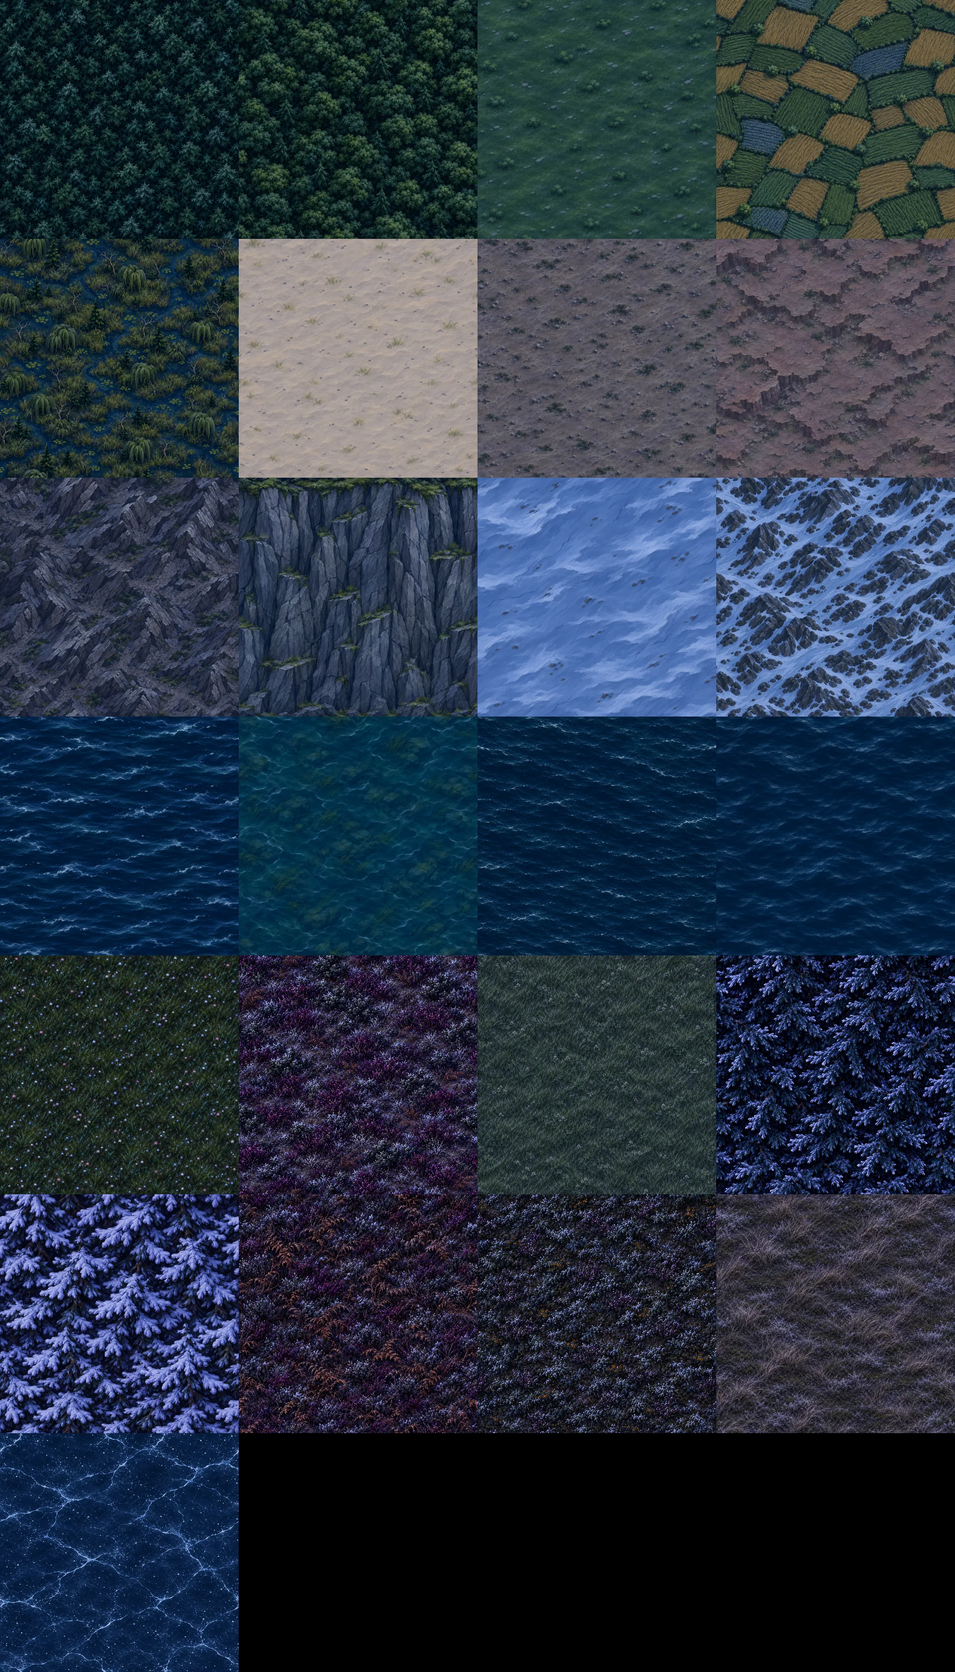
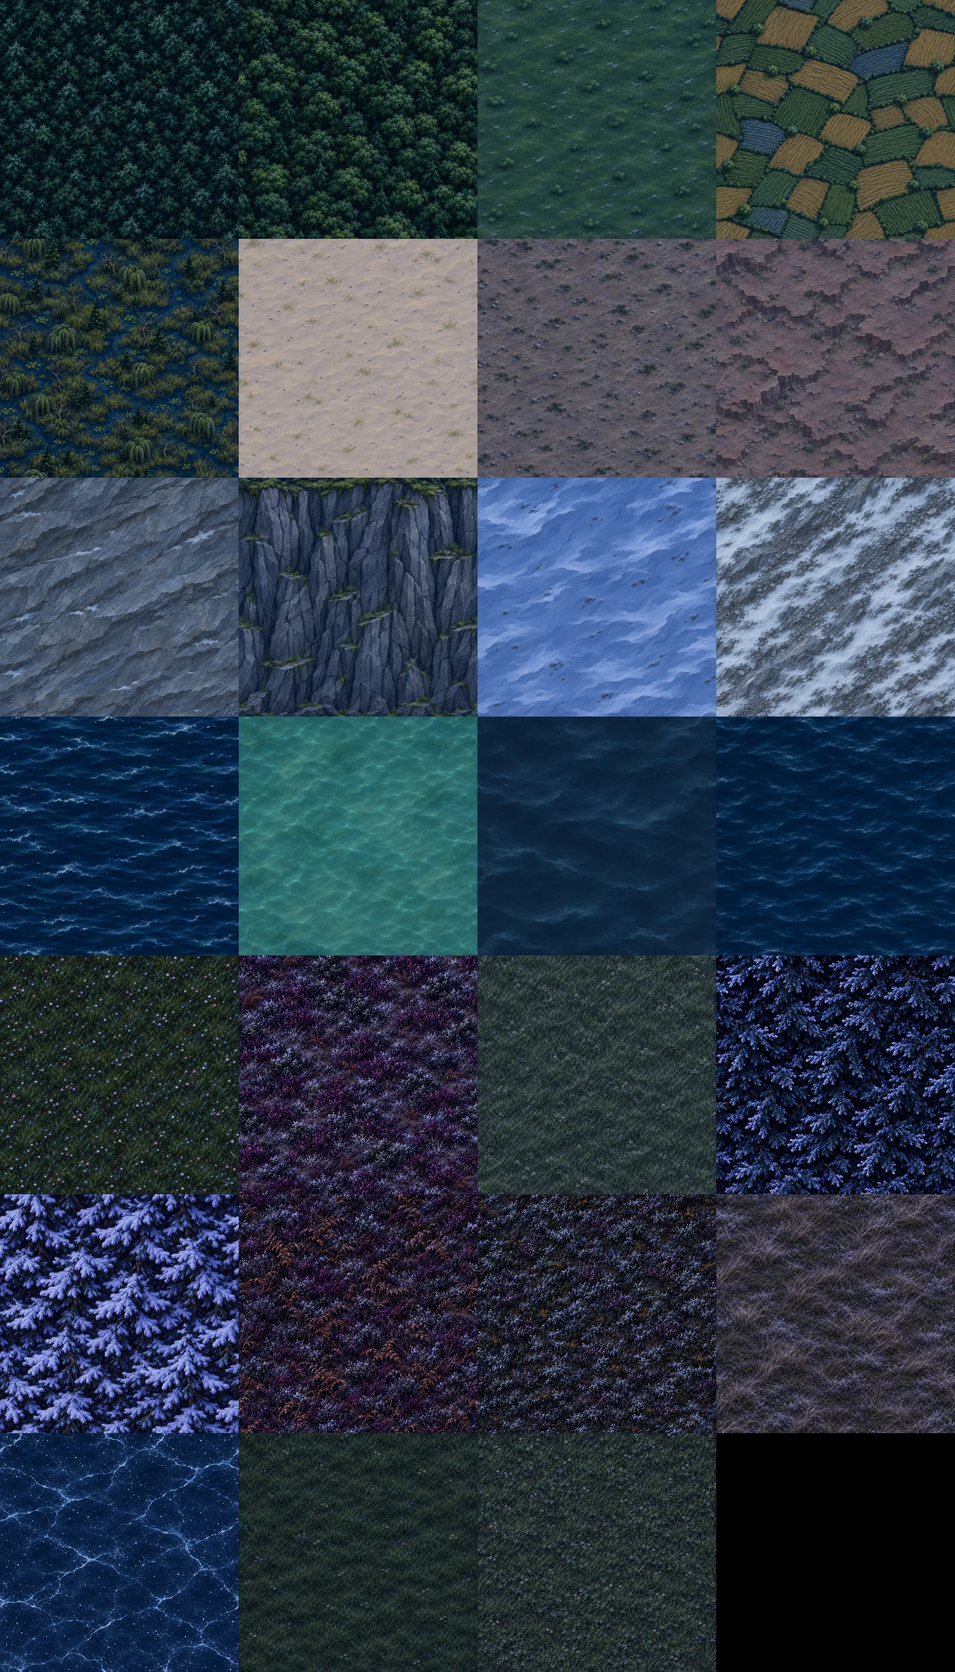
World map: no surf bands, still rivers, textured grass, gentler buildings; Chris's four new sea and mountain textures
Chris (November 17, from his laptop): the ripples along the coast gone; rivers flat and still; more texture in the open
grass; the buildings were washing out. His four textures made for this map (aethermoor_sea_from_high,
aethermoor_sea_shallows, aethermoor_mountain_rock, aethermoor_mountain_scree_snow; from his upload
Aethermoor-World-Map-Round1.zip, kept as sent in moon-faire-witches/world-map/art/world-map-round-1/) take the places of
deep_sea, shallow_sea, bare_rock and snowy_mountainside in the ground layers; shared_grass_meadow and
riverglade_clover_grass (texture-packs/made/ on work/textures-made, bb4a5f0) are added for the grass.

Claude-Session: https://claude.ai/code/session_0193WyVCYZfXoKRL5N8nneCc

diff --git a/moon-faire-witches/world-map/map/map3d.js b/moon-faire-witches/world-map/map/map3d.js
@@ -76,16 +76,18 @@
       return albedo * (vec3(0.30, 0.35, 0.52) * (0.62 + 0.38 * sv.y) + vec3(0.92, 0.94, 1.0) * max(l, 0.0) * 0.95 * sv.x + vec3(0.05, 0.06, 0.10) * max(n.y, 0.0));
     }
     // water under the moon, flat: two sets of small ripples crossing tilt its face a little; seen at a low angle it takes
-    // the sky's sheen; and the moon lays a path of light on it (calm: 1 the open sea, less for a river)
-    vec3 water(vec3 base, vec3 wp, float vd, float calm) {
-      vec2 p = wp.xz * 0.11, m1 = uTime * vec2(0.42, 0.25), m2 = uTime * vec2(-0.36, 0.5), e = vec2(0.7, 0.0);
+    // the sky's sheen; and the moon lays a path of light on it (calm: 1 the open sea, near 0 a river, which lies
+    // still: move 0)
+    vec3 water(vec3 base, vec3 wp, float vd, float calm, float move) {
+      vec2 p = wp.xz * 0.11, m1 = uTime * vec2(0.42, 0.25) * move, m2 = uTime * vec2(-0.36, 0.5) * move, e = vec2(0.7, 0.0);
       float a = n2(p + m1), b = n2(p * 2.3 + m2);
       vec2 g = vec2(n2(p + e + m1) - a, n2(p + e.yx + m1) - a) + 0.6 * vec2(n2(p * 2.3 + e + m2) - b, n2(p * 2.3 + e.yx + m2) - b);
       vec3 n = normalize(vec3(-g.x * calm * 0.45, 1.0, -g.y * calm * 0.45)), v = normalize(uEye - wp), r = reflect(-v, n);
       float fres = pow(1.0 - max(dot(n, v), 0.0), 4.0), mr = max(dot(r, uMoon), 0.0), nearBy = 1.0 - smoothstep(1500.0, 6500.0, vd);
       vec3 c = base * (0.86 + 0.28 * n2(p * 0.33 + m1 * 0.2));
       c = mix(c, vec3(0.15, 0.18, 0.34), fres * 0.6);
-      return c + vec3(0.85, 0.88, 1.0) * (pow(mr, 160.0) * 0.8 + pow(mr, 22.0) * 0.22) * (0.25 + 0.75 * nearBy);
+      // (the moon's light on it soft and broad: sharp glints made a busy scribble over the water near the coasts)
+      return c + vec3(0.85, 0.88, 1.0) * (pow(mr, 90.0) * 0.16 + pow(mr, 18.0) * 0.16) * (0.25 + 0.75 * nearBy);
     }
     vec3 finish(vec3 c, vec3 wp, float depth, float lines) {
       vec2 at = vec2((wp.x + ${AW / 2}.0) / ${AW}.0, (wp.z + ${AH / 2}.0) / ${AH}.0);
@@ -120,7 +122,7 @@
   // tex: true where the phone or laptop can hold the made ground textures as a stack of layers (WebGL 2); else flat colours
   const landF = (tex) => `
     ${tex ? 'precision highp sampler2DArray;' : ''}
-    uniform sampler2D ground, kinds; ${tex ? 'uniform sampler2DArray layers; uniform float uLayer[65], uMoodW[13]; uniform vec3 uTint[25];' : ''}
+    uniform sampler2D ground, kinds; ${tex ? 'uniform sampler2DArray layers; uniform float uLayer[65], uMoodW[13]; uniform vec3 uTint[27];' : ''}
     varying vec3 vW, vN; varying float vDepth;
     ${FINISH}
     void main() {
@@ -152,6 +154,19 @@
       // close to, the same texture again much finer, so the ground has grain under the trees
       c = mix(c, texture(layers, vec3(p / 21.0 + 0.11, L)).rgb, 0.5 * (1.0 - smoothstep(60.0, 300.0, vDepth)));
       c *= uTint[int(L + 0.5)];
+      // open grass has more to it than one even green: drifts of meadow and of clover, darker and lighter patches, and
+      // close to, tufts and the specks of flowers
+      if (k == 5) {
+        float m1 = fbm(vW.xz * 0.021 + 4.0), m2 = fbm(vW.xz * 0.034 + 11.0);
+        if (zi <= 1) {
+          c = mix(c, texture(layers, vec3(p / 70.0, 25.0)).rgb * uTint[25], smoothstep(0.42, 0.6, m1) * 0.85);
+          c = mix(c, texture(layers, vec3(p / 60.0, 26.0)).rgb * uTint[26], smoothstep(0.52, 0.66, m2) * 0.8);
+        }
+        c *= 0.8 + 0.42 * fbm(vW.xz * 0.075 + 1.5);
+        float near = 1.0 - smoothstep(120.0, 520.0, vDepth), tuft = n2(vW.xz * 0.9) * n2(vW.xz * 2.3 + 3.0);
+        c *= 1.0 - 0.38 * near * smoothstep(0.22, 0.5, tuft);
+        c += vec3(0.5, 0.48, 0.3) * near * smoothstep(0.86, 0.93, n2(vW.xz * 3.1 + 7.0)) * smoothstep(0.45, 0.6, m2);
+      }
       // the mountains: bare rock, banded as it rises; snow lying where the ground is high and not too steep (higher on
       // some slopes than others, and wherever the painting has snow); between the two, rock with snow in its hollows
       float slope = 1.0 - mix(face.y, sn.y, 0.5);
@@ -166,13 +181,15 @@
       c = mix(mooded(c, vW, mw), mooded(cl, vW, 0.35), steep * (mt ? 0.75 : 1.0));
       c = moonlitTex(c, n, sv);
       // inland water: its bank damp and dark, then the water (in zone 4 it is frozen: the lake ice)
-      vec3 wt = texture(layers, vec3((vW.xz + (zi == 4 ? vec2(0.0) : uTime * vec2(1.3, 0.8))) / 64.0, zi == 4 ? 24.0 : 12.0)).rgb;
-      vec3 wc = zi == 4 ? moonlitTex(wt * uTint[24], n, sv) : water(wt * vec3(1.05, 1.12, 1.25), vW, vDepth, 0.55) * (0.62 + 0.38 * sv.x);
+      // (Chris, November 17: flat and still. The river's texture has waves painted in it, which read as water running
+      // downhill between the trees: so mostly one even colour, a little of the texture laid large, and nothing moving)
+      vec3 wt = texture(layers, vec3(vW.xz / (zi == 4 ? 64.0 : 300.0), zi == 4 ? 24.0 : 15.0)).rgb;
+      vec3 wc = zi == 4 ? moonlitTex(wt * uTint[24], vec3(0.0, 1.0, 0.0), sv) : water(mix(vec3(0.07, 0.19, 0.36), wt * vec3(1.1, 1.2, 1.35), 0.3), vW, vDepth, 0.08, 0.0) * (0.62 + 0.38 * sv.x);
       c = mix(c * (1.0 - 0.3 * smoothstep(0.18, 0.42, g.a)), wc, wet);` : `
       vec3 c = g.rgb * (0.9 + 0.2 * n2(vW.xz * 0.35));
       c = mix(c, mix(vec3(0.40, 0.40, 0.44), c * 0.62, 0.45), steep);
       c = moonlit(mooded(c, vW, 0.8 * (1.0 - steep)), n, sv);
-      c = mix(c, water(vec3(0.07, 0.2, 0.34), vW, vDepth, 0.55), wet);`}
+      c = mix(c, water(vec3(0.07, 0.2, 0.34), vW, vDepth, 0.08, 0.0), wet);`}
       gl_FragColor = vec4(finish(c, vW, vDepth, 1.0), 1.0);
     }`;
   const SEA_V = 'varying vec3 vW; varying float vDepth; void main() { vec4 w = modelMatrix * vec4(position, 1.0); vW = w.xyz; vec4 mv = viewMatrix * w; vDepth = -mv.z; gl_Position = projectionMatrix * mv; }';
@@ -190,19 +207,17 @@
       ${tex ? `
       // (the textures drift; the deep one is laid twice, crossing, at two sizes, so its repeat doesn't show)
       vec2 d1 = uTime * vec2(1.6, 0.9), d2 = uTime * vec2(-0.9, 1.3);
-      vec3 sh = texture(layers, vec3((vW.xz + d1) / 130.0, 13.0)).rgb * 1.55;
-      vec3 dp = 0.5 * (texture(layers, vec3((vW.xz + d1) / 170.0, 14.0)).rgb + texture(layers, vec3((mat2(0.8, -0.6, 0.6, 0.8) * vW.xz + d2) / 410.0, 14.0)).rgb);
-      vec3 base = mix(sh, dp * vec3(1.25, 1.3, 1.4), smoothstep(0.0, 0.7, d));` : `
+      // (Chris's sea made to be seen from high up: one square covers 4 km, and again 11 km, crossing)
+      vec3 sh = texture(layers, vec3((vW.xz + d1) / 210.0, 13.0)).rgb * 0.7;
+      vec3 dp = 0.5 * (texture(layers, vec3((vW.xz + d1) / 420.0, 14.0)).rgb + texture(layers, vec3((mat2(0.8, -0.6, 0.6, 0.8) * vW.xz + d2) / 1100.0, 14.0)).rgb);
+      vec3 base = mix(sh, dp * vec3(1.04, 1.08, 1.16), smoothstep(0.0, 0.7, d));` : `
       vec3 base = mix(vec3(0.10, 0.36, 0.46), vec3(0.035, 0.085, 0.22), smoothstep(0.0, 0.75, d));`}
       // the sea bed showing pale through the shallowest water
       base = mix(vec3(0.22, 0.44, 0.43), base, smoothstep(0.0, 0.13, d) * 0.75 + 0.25);
-      vec3 c = water(base, vW, vDepth, 1.0) * (0.7 + 0.3 * mix(1.0, sd.g, inner3)); // (the cliffs' shadows lie on it)
-      // surf: a line of foam along the shore, and two more that roll in to it one after the other
-      float nz = n2(vW.xz * 0.35 + uTime * 0.25), ph = uTime * 0.16 + n2(vW.xz * 0.02) * 4.0, f1 = fract(ph), f2 = fract(ph + 0.5);
-      float foam = (1.0 - smoothstep(0.015, 0.06, d))
-        + (1.0 - smoothstep(0.0, 0.03, abs(d - (0.2 - 0.16 * f1)))) * smoothstep(0.0, 0.35, f1) * 0.8
-        + (1.0 - smoothstep(0.0, 0.03, abs(d - (0.2 - 0.16 * f2)))) * smoothstep(0.0, 0.35, f2) * 0.8;
-      c = mix(c, vec3(0.82, 0.88, 0.96), clamp(foam, 0.0, 1.0) * (0.4 + 0.6 * nz) * inMap * (1.0 - smoothstep(2500.0, 7000.0, vDepth) * 0.6));
+      vec3 c = water(base, vW, vDepth, 1.0, 1.0) * (0.7 + 0.3 * mix(1.0, sd.g, inner3)); // (the cliffs' shadows lie on it)
+      // (Chris, November 17: no bands of surf rolling in along the coasts. Only the water's own pale edge where it
+      // meets the land, soft and unmoving)
+      c = mix(c, vec3(0.62, 0.74, 0.82), (1.0 - smoothstep(0.0, 0.03, d)) * 0.35 * inMap);
       gl_FragColor = vec4(finish(c, vW, vDepth, 1.0), 1.0);
     }`;
   // trees and buildings. Three sorts: a simple tree shape drawn thousands of times, each with its own colour; one mesh
@@ -258,8 +273,9 @@
     ${FINISH}
     void main() {
       vec3 n = normalize(cross(dFdx(vW), dFdy(vW)));
-      vec3 c = ${tex ? 'texture(blayers, vUv).rgb * 1.9 * vT' : 'vT'};
-      c = ${tex ? 'moonlitTex' : 'moonlit'}(mooded(c, vW, uMood), n, shadeAt(vW));
+      vec2 sv = shadeAt(vW); float l = dot(n, uMoon);
+      // (lit more gently than the ground: on a real graphics card the walls and roofs were washing out to white and pink)
+      vec3 c = ${tex ? 'mooded(texture(blayers, vUv).rgb * 1.35 * vT, vW, uMood) * (vec3(0.8, 0.84, 0.98) * (0.62 + 0.38 * sv.y) + vec3(0.8) * max(l, 0.0) * sv.x)' : 'moonlit(mooded(vT, vW, uMood), n, sv)'};
       gl_FragColor = vec4(finish(c, vW, vDepth, 0.0), 1.0);
     }`;
   // the towns' lit windows: small warm points, dimmed under the mist
@@ -477,7 +493,7 @@
       const kd = new Uint8Array(DW * DH * 4);
       {
         const kk = Uint8Array.from(Kd), wetK = (v) => v === KIND.river || v === KIND.lake;
-        for (let pass = 0; pass < 14; pass++) { let left = 0; const next = Uint8Array.from(kk);
+        for (let pass = 0; pass < 120; pass++) { let left = 0; const next = Uint8Array.from(kk);
           for (let y = 1; y < DH - 1; y++) for (let x = 1; x < DW - 1; x++) { const i = y * DW + x; if (!wetK(kk[i])) continue; let got = 0; for (const j of [i - 1, i + 1, i - DW, i + DW]) if (kk[j] > KIND.lake) { got = kk[j]; break; } if (got) next[i] = got; else left++; }
           kk.set(next); if (!left) break; }
         for (let i = 0; i < DW * DH; i++) { kd[i * 4] = kk[i] <= KIND.lake ? KIND.sand : kk[i]; kd[i * 4 + 3] = 255; }
@@ -493,9 +509,9 @@
       // (the made textures are painted by night, at different brightnesses, and all lean blue: this evens them and gives
       // each its own colour back, so the dark pine wood, the pale beach and the red mesas sit together). By layer
       const TINT = new Float32Array([[1.8, 2.1, 1.7], [1.7, 1.9, 1.45], [1.25, 1.48, 1.02], [1.38, 1.3, 1.06], [1.5, 1.58, 1.28], [0.65, 0.62, 0.56], [1.27, 1.18, 0.76], [1.45, 1.0, 0.7],
-        [1.4, 1.33, 1.24], [1.25, 1.25, 1.25], [1.22, 1.08, 0.93], [1.25, 1.25, 1.25], [1.25, 1.25, 1.25], [1.25, 1.25, 1.25], [1.25, 1.25, 1.25], [1.25, 1.25, 1.25],
+        [0.94, 0.89, 0.83], [1.25, 1.25, 1.25], [1.22, 1.08, 0.93], [0.96, 0.96, 0.96], [1.25, 1.25, 1.25], [1.25, 1.25, 1.25], [1.25, 1.25, 1.25], [1.25, 1.25, 1.25],
         [2.1, 2.4, 1.8], [1.5, 1.5, 1.42], [1.7, 1.85, 1.65], [1.5, 1.75, 1.3], [0.95, 0.9, 0.82], [1.55, 1.45, 1.35], [1.45, 1.6, 1.6], [1.7, 1.65, 1.55],
-        [1.0, 1.02, 1.05]].flat());
+        [1.0, 1.02, 1.05], [1.35, 1.6, 1.1], [1.3, 1.7, 1.15]].flat());
       // the sheet, in pieces (so what's off the screen isn't drawn): 576 x 384 squares on a phone, 1152 x 768 on a laptop
       const [PX, PY] = LV.pieces, nx = LV.squares[0] / PX, ny = LV.squares[1] / PY, pw = AW / PX, ph = AH / PY;
       const mat = material(LAND_V, landF(!!layers), { ground: { value: ground }, kinds: { value: kinds }, layers: { value: layers }, uLayer: { value: LAYER }, uMoodW: { value: MOODW }, uTint: { value: TINT } });

diff --git a/moon-faire-witches/workshop/slips/world-map.md b/moon-faire-witches/workshop/slips/world-map.md
@@ -30,10 +30,17 @@ Chris said: (15:22, after the first build, which laid the night atlas over a hei
           it); the cliffs look good but the mountains could have a fair bit of improvement; and the houses and buildings
           should look like structures from the 3D of the game. He can get images generated (water surface, mountainside)
           for anything this pass needs. Done (below); four textures asked for in art-requests/world-map-round-1.md.
+          (08:42, with four photos of his laptop's screen, and a zip of the four textures asked for) The ripples along
+          the coast would look better gone. The river looks as if it moves between the trees, less immersive: make it
+          flat. The open grass could have more texture. (His fourth photo showed the buildings washed out to white and
+          pink on his laptop.) All done (below). And he wants to consider what it would take for this 3D map to reflect
+          the actual in-game map: the buildings accurate, in less detail than the game, and the wild zones looking
+          right. Answered with a plan in three passes (Open 7); waiting for his word.
 Branch:   work/world-map (from work/world-3d at 0046851)
 Files:    moon-faire-witches/world-map/ (all new to the game): README.md, envoi-map-where.html, map/map3d.js,
           map/places.js, map/art.js, map/moods.js, map/map.css, art/aethermoor-terrain-height.png,
           art/aethermoor-terrain-kinds.png, art/aethermoor-ground-layers.webp, art/LABELS.md (what each art file holds),
+          art/world-map-round-1/ (Chris's four textures of November 17, as he sent them),
           art/aethermoor-building-layers.webp, map/buildings.js, tools/make-buildings.mjs, art-requests/world-map-round-1.md,
           art/trees/ (24 files: eight trees, each <id>.glb, <id>_mid.glb and <id>_far.glb), map/tree-models.js,
           tools/make-tree-mids.mjs, tools/make-tree-models.mjs, tools/tree-lineup.html, tools/make-terrain.mjs, tools/make-ground-layers.mjs, tools/make-moods.mjs, tools/check-places.mjs,
@@ -41,7 +48,7 @@ Files:    moon-faire-witches/world-map/ (all new to the game): README.md, envoi-
           moon-faire-witches/workshop/slips/world-map.md
           (The first build's art/night-1..4.avif, art/height.png, art/land.png and tools/make-map-art.mjs are gone.)
           Nothing else changed.
-File for Chris: envoi-map-where.html (5.8 MB, works offline, one file for phone and laptop: it picks the level, and the
+File for Chris: envoi-map-where.html (6.0 MB, works offline, one file for phone and laptop: it picks the level, and the
           "Move Io" list has the switch). It opens on the whole land and flies down to Io at
           Wickhollow. One finger turns the land and tips the view; two fingers pinch to zoom, slide to move, twist to
           turn. The moon button (bottom right) finds Io again. "Move Io" (bottom left) puts her in any of the 21 places.
@@ -83,7 +90,14 @@ Done:     Nothing of the painting is on the model. tools/make-terrain.mjs reads 
           (work/world-3d at e99820b) by tools/make-buildings.mjs, stand in their true arrangement in the game's 13 wall
           and roof textures (all Chris's made ones, from work/textures-made at bb4a5f0); the castle and the other
           towns are built the same way. 134 buildings, 4,306 triangles, 188 window lights.
-Checked:  (November 17, the pass) 27 views at the phone's level and 8 at the laptop's: 0 page errors; touch test 10 of 10;
+          November 17, 08:42's fixes: no surf bands (only the water's pale edge); rivers and lakes still and flat, one
+          even colour; soft moonlight on the sea, no sharp glints; open grass with drifts of meadow and clover, patches,
+          tufts and flower specks; buildings lit more gently (they washed out on his laptop's graphics card). His four
+          new textures are in: the open sea (4 km and 11 km to the square), the shallows, the mountain rock, the scree
+          and snow. 27 ground textures now, all his.
+Checked:  (08:42's fixes) Phone, all views, and laptop, 6 views: 0 page errors; touch test 10 of 10; places check passes.
+          The buildings' brightness on his laptop is for him to confirm (headless stills come out darker than his screen).
+          (November 17, the pass) 27 views at the phone's level and 8 at the laptop's: 0 page errors; touch test 10 of 10;
           places check passes. Frame rates not measured.
           (November 17) Both levels, zoomed in and at 3.3, 7 and 10.5 km: 0 page errors; touch test 10 of 10; places
           check passes. tree-lineup.html: every tree at its three levels, the middle ones keeping their shape. Drawn
@@ -121,5 +135,12 @@ Open:     0. For the hub: the page's textures are packed from texture-packs/made
           4. For Chris: are the walking places where he sees them? The jetty is west of Wickhollow on foot, but the
              Magpie's dock is east of it on the atlas; the map keeps it at the dock.
           5. Answered (20:18): Skies' four ships, the next ship part of each gate between zones.
+          7. To make the map reflect the game's places truly (Chris asked what it would take): three passes. (a) Each
+             place's own ground on the map: its paths, cobbles, lawns, water, bridge, walls, steps, well and jetties,
+             read from its place file as the buildings are, the map's land shaped level under it. (b) Each place's own
+             trees where the game has them (its -trees.js file), and the wild places' wide fields, thickets, rocks and
+             fog colour. (c) Lining places up with each other: exits pointing at the next place, roads between. The
+             catch is scale: a place is about 61 m across and the map is 46 km, so places stay drawn about 7.5 times
+             life size, as now. Waiting on Chris to say go, and which place first.
           6. For the world-3d job, when the zone shell is in: its travel hook opens WorldMap.create with Io's place
              and spot, and the zones reached (from the shared save).

diff --git a/moon-faire-witches/world-map/art/LABELS.md b/moon-faire-witches/world-map/art/LABELS.md
@@ -15,10 +15,12 @@ To read a spot at atlas (x, y): the pixel at (floor(x / 4), floor(y / 4)).
 
 ## The ground textures
 
-`aethermoor-ground-layers.webp` (2048 x 3584) is twenty-five of Chris's made textures in one picture, each a 512 x 512
+`aethermoor-ground-layers.webp` (2048 x 3584) is twenty-seven of Chris's made textures in one picture, each a 512 x 512
 square that repeats, left to right, top to bottom. Packed by `../tools/make-ground-layers.mjs` from
 `moon-faire-witches/texture-packs/made/<name>.png` (on the branch `work/textures-made` when this was packed, November 16;
-all 25 are Chris's own, none a stand-in). The names are the cards' file names, so each can be found again in
+all 27 are Chris's own, none a stand-in). Four of them he made for this map on November 17, to be seen from high up
+(the prompts are in `../art-requests/world-map-round-1.md`); his files are kept as he sent them in
+`world-map-round-1/` (1254 x 1254 each), under the names below, for the hub to add to `texture-packs/made/` too. The names are the cards' file names, so each can be found again in
 `texture-packs/made/index.csv`.
 
 | # | Texture (file name in `made/`) | Worn by |
@@ -31,14 +33,14 @@ all 25 are Chris's own, none a stand-in). The names are the cards' file names, s
 | 5 | `beach_sand` | beaches and shores |
 | 6 | `desert_ground` | the desert floor |
 | 7 | `sandstone_mesa` | the mesas, and their cliff faces |
-| 8 | `bare_rock` | the mountains' rock, and their steep faces |
+| 8 | `aethermoor_mountain_rock` (it was `bare_rock`) | the mountains' rock, and their steep faces |
 | 9 | `coastal_cliff` | every steep face outside the desert |
 | 10 | `snowfield` | snow |
-| 11 | `snowy_mountainside` | the mountains between bare rock and full snow |
-| 12 | `river_water` | rivers |
-| 13 | `shallow_sea` | the sea by the shores |
-| 14 | `deep_sea` | the deep sea |
-| 15 | `mountain_lake` | lakes |
+| 11 | `aethermoor_mountain_scree_snow` (it was `snowy_mountainside`) | the mountains between bare rock and full snow |
+| 12 | `river_water` | (packed, not worn: its painted waves read as running water) |
+| 13 | `aethermoor_sea_shallows` (it was `shallow_sea`) | the sea by the shores |
+| 14 | `aethermoor_sea_from_high` (it was `deep_sea`) | the open sea |
+| 15 | `mountain_lake` | rivers and lakes (a little of it, laid large, over one even colour) |
 | 16 | `dawn_grass_flowers` | zone 2's grass |
 | 17 | `moor_heather_frost` | zone 3's grass |
 | 18 | `frostmere_frost_meadow` | zone 4's grass |
@@ -48,6 +50,8 @@ all 25 are Chris's own, none a stand-in). The names are the cards' file names, s
 | 22 | `frosted_undergrowth` | zone 4's leafy forest |
 | 23 | `crossroads_frost_moor` | zone 4's farmland |
 | 24 | `shared_lake_ice` | zone 4's rivers and lakes, frozen |
+| 25 | `shared_grass_meadow` | drifts of meadow in zone 1's open grass |
+| 26 | `riverglade_clover_grass` | drifts of clover in zone 1's open grass |
 
 ## The buildings' textures
 

diff --git a/moon-faire-witches/world-map/README.md b/moon-faire-witches/world-map/README.md
@@ -58,10 +58,16 @@ pictures (`art/`, labelled in `art/LABELS.md`): what kind of ground each spot is
   shallowest water, a line of foam on the shore and two more rolling in. All water tilts its face in small crossing
   ripples, takes the sky's sheen at a low angle, and carries the moon's path of light. Rivers and lakes are drawn to
   smooth, slightly ragged banks (not in squares), with a damp dark edge; in zone 4 they are frozen (`shared_lake_ice`).
+  Later that morning, at Chris's word: no bands of surf along the coasts (only the water's pale edge); rivers and
+  lakes flat and still, one even colour; the moon's light on the sea soft, with no sharp glints. The open sea and the
+  shallows wear the two sea textures he made for this map (`art/world-map-round-1/`), laid 4 km and 11 km to the square.
+- **Open grass** (November 17) has drifts of meadow and clover, darker and lighter patches, and tufts and flower specks
+  close to.
 - **The mountains** (November 17): the height reader now wears the mountain country with rain (140,000 drops, each
   cutting where it runs steep and dropping what it carries where it slows), which gives gullies, sharp ridges and fans;
   the ridges are bent so they don't run straight. On the model, mountain ground is bare rock banded as it rises, snow
   where it is high and not too steep (and wherever the painting has snow), rock with snow in its hollows between.
+  The rock and the scree-and-snow are the two mountain textures Chris made for this map.
 - **Moon shadows** (November 17): worked out once from the land's shape: hills and peaks throw shadows away from the
   moon (across the land, the sea, the trees and the buildings), and valleys and gullies lie in shade.
 - **The buildings are the 3D game's** (November 17): the 86 buildings of the nine walking places that have any
@@ -90,7 +96,7 @@ pictures (`art/`, labelled in `art/LABELS.md`): what kind of ground each spot is
   down to look from above). Two fingers pinch to zoom, slide to move, twist to turn. The moon button flies back to Io,
   north up. The page opens on the whole land and flies down to her. "Move Io" (this demo only) puts her in any of the
   21 walking places; its list shows the frame rate and the counts.
-- **Size:** 5.8 MB, works offline (one file for both levels).
+- **Size:** 6.0 MB, works offline (one file for both levels).
 
 ### What isn't there yet
 
@@ -123,7 +129,8 @@ It needs three.js r128, `src/game/world.js`, `map/places.js`, `map/art.js` and `
 
 ## Art requests
 
-`art-requests/world-map-round-1.md`: four textures worth generating for the sea and the mountains, with prompts.
+`art-requests/world-map-round-1.md`: four textures for the sea and the mountains, with prompts. Chris made all four
+on November 17 (`art/world-map-round-1/`), and they are in.
 
 ## Files
 
